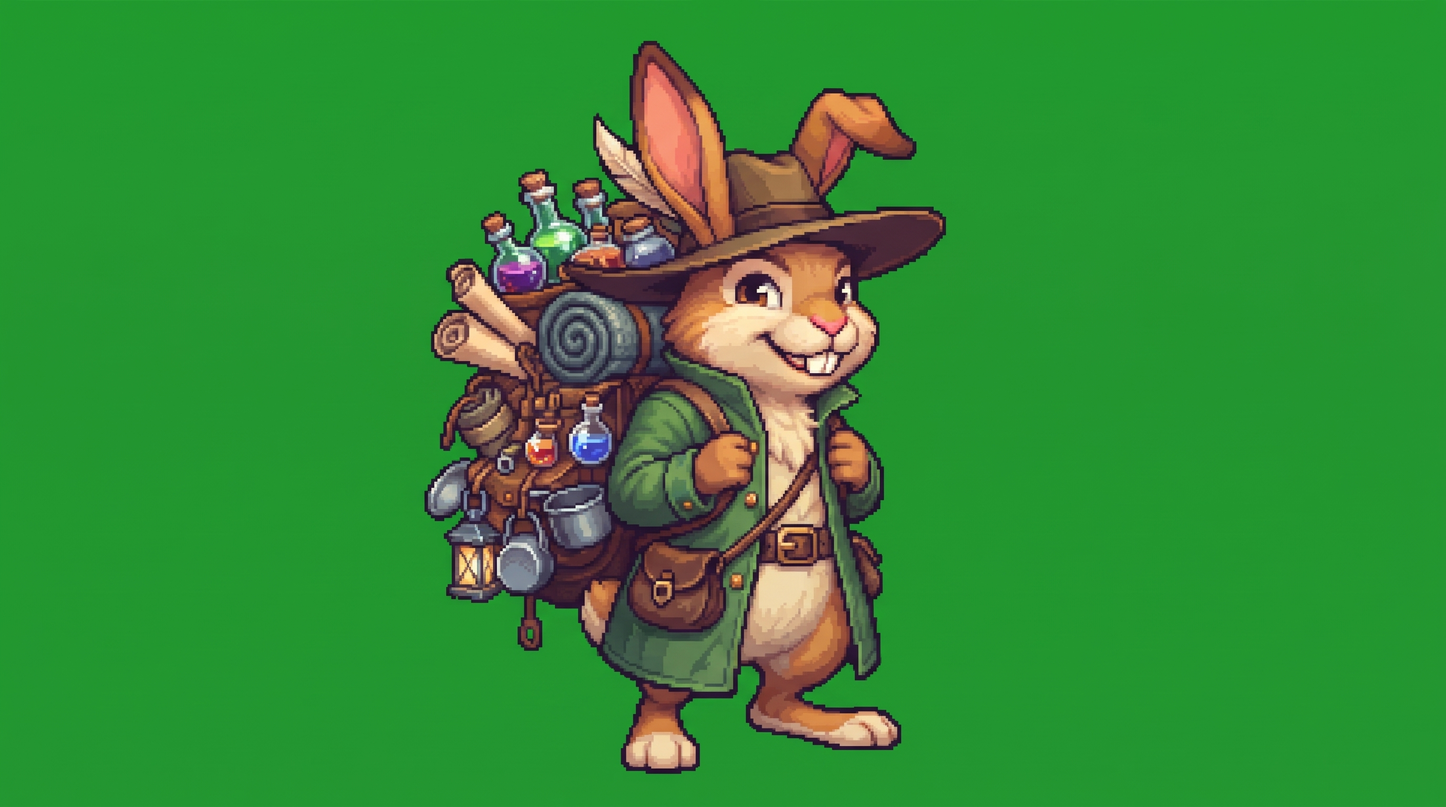
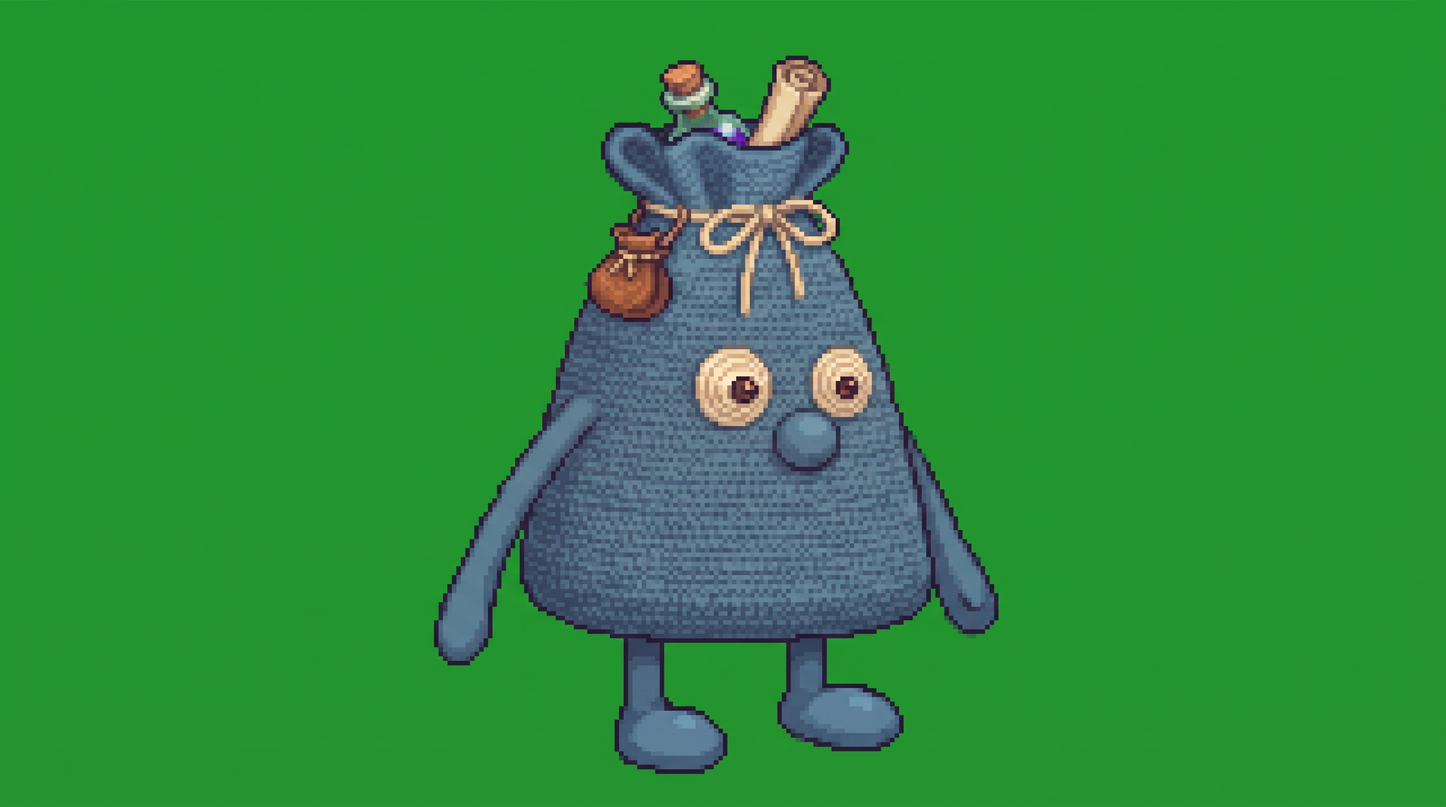
Haendler Wulle: lebender Sack aus blauer Haekelwolle statt Hase Hoppel

Changed region(s): [[0.2812, 0.0312, 0.6875, 0.9688]]

diff --git a/docs/kampfsystem.md b/docs/kampfsystem.md
@@ -102,7 +102,7 @@ Im Kampf: Menü **Gegenstand** neben **Angriff / Fähigkeit / Warten**. Nicht be
 
 - **Quellen (alle fest, kein Zufall):** Truhen („Truhe öffnen“) und Dörfer („Dorf besuchen“) auf der Karte kosten die Aktion und gehen einmal; Gegner mit Beutesack über dem Kopf geben ihren Gegenstand beim Besiegen; Kapitelbelohnung und Bonusziele (Kein Held fällt, schnell gewonnen) nach dem Sieg.
 - **Gold** nur aus diesen Quellen. Zutaten: Kraut, Hopfen, Kristall.
-- **Lager** nach jedem Kapitel (`game/scripts/camp.gd`): **Händler** (Hase „Hoppel“, fester Vorrat pro Kapitel, `data/shop.json`; Preise noch Platzhalter bis zum Balancing-Lauf E5), **Brauen** (`data/recipes.json`: Brunhilde braut Bier, Wendy Heiltrank und Gegengift, Claude Äther), **Ausrüstung**, **Aufstellung**.
+- **Lager** nach jedem Kapitel (`game/scripts/camp.gd`): **Händler** (lebender Wollsack „Wulle“, fester Vorrat pro Kapitel, `data/shop.json`; Preise noch Platzhalter bis zum Balancing-Lauf E5), **Brauen** (`data/recipes.json`: Brunhilde braut Bier, Wendy Heiltrank und Gegengift, Claude Äther), **Ausrüstung**, **Aufstellung**.
 - **Speichern:** `user://save.json` (Gold, Rucksack, Zutaten, Ausrüstung, Vorrat des Händlers).
 
 
